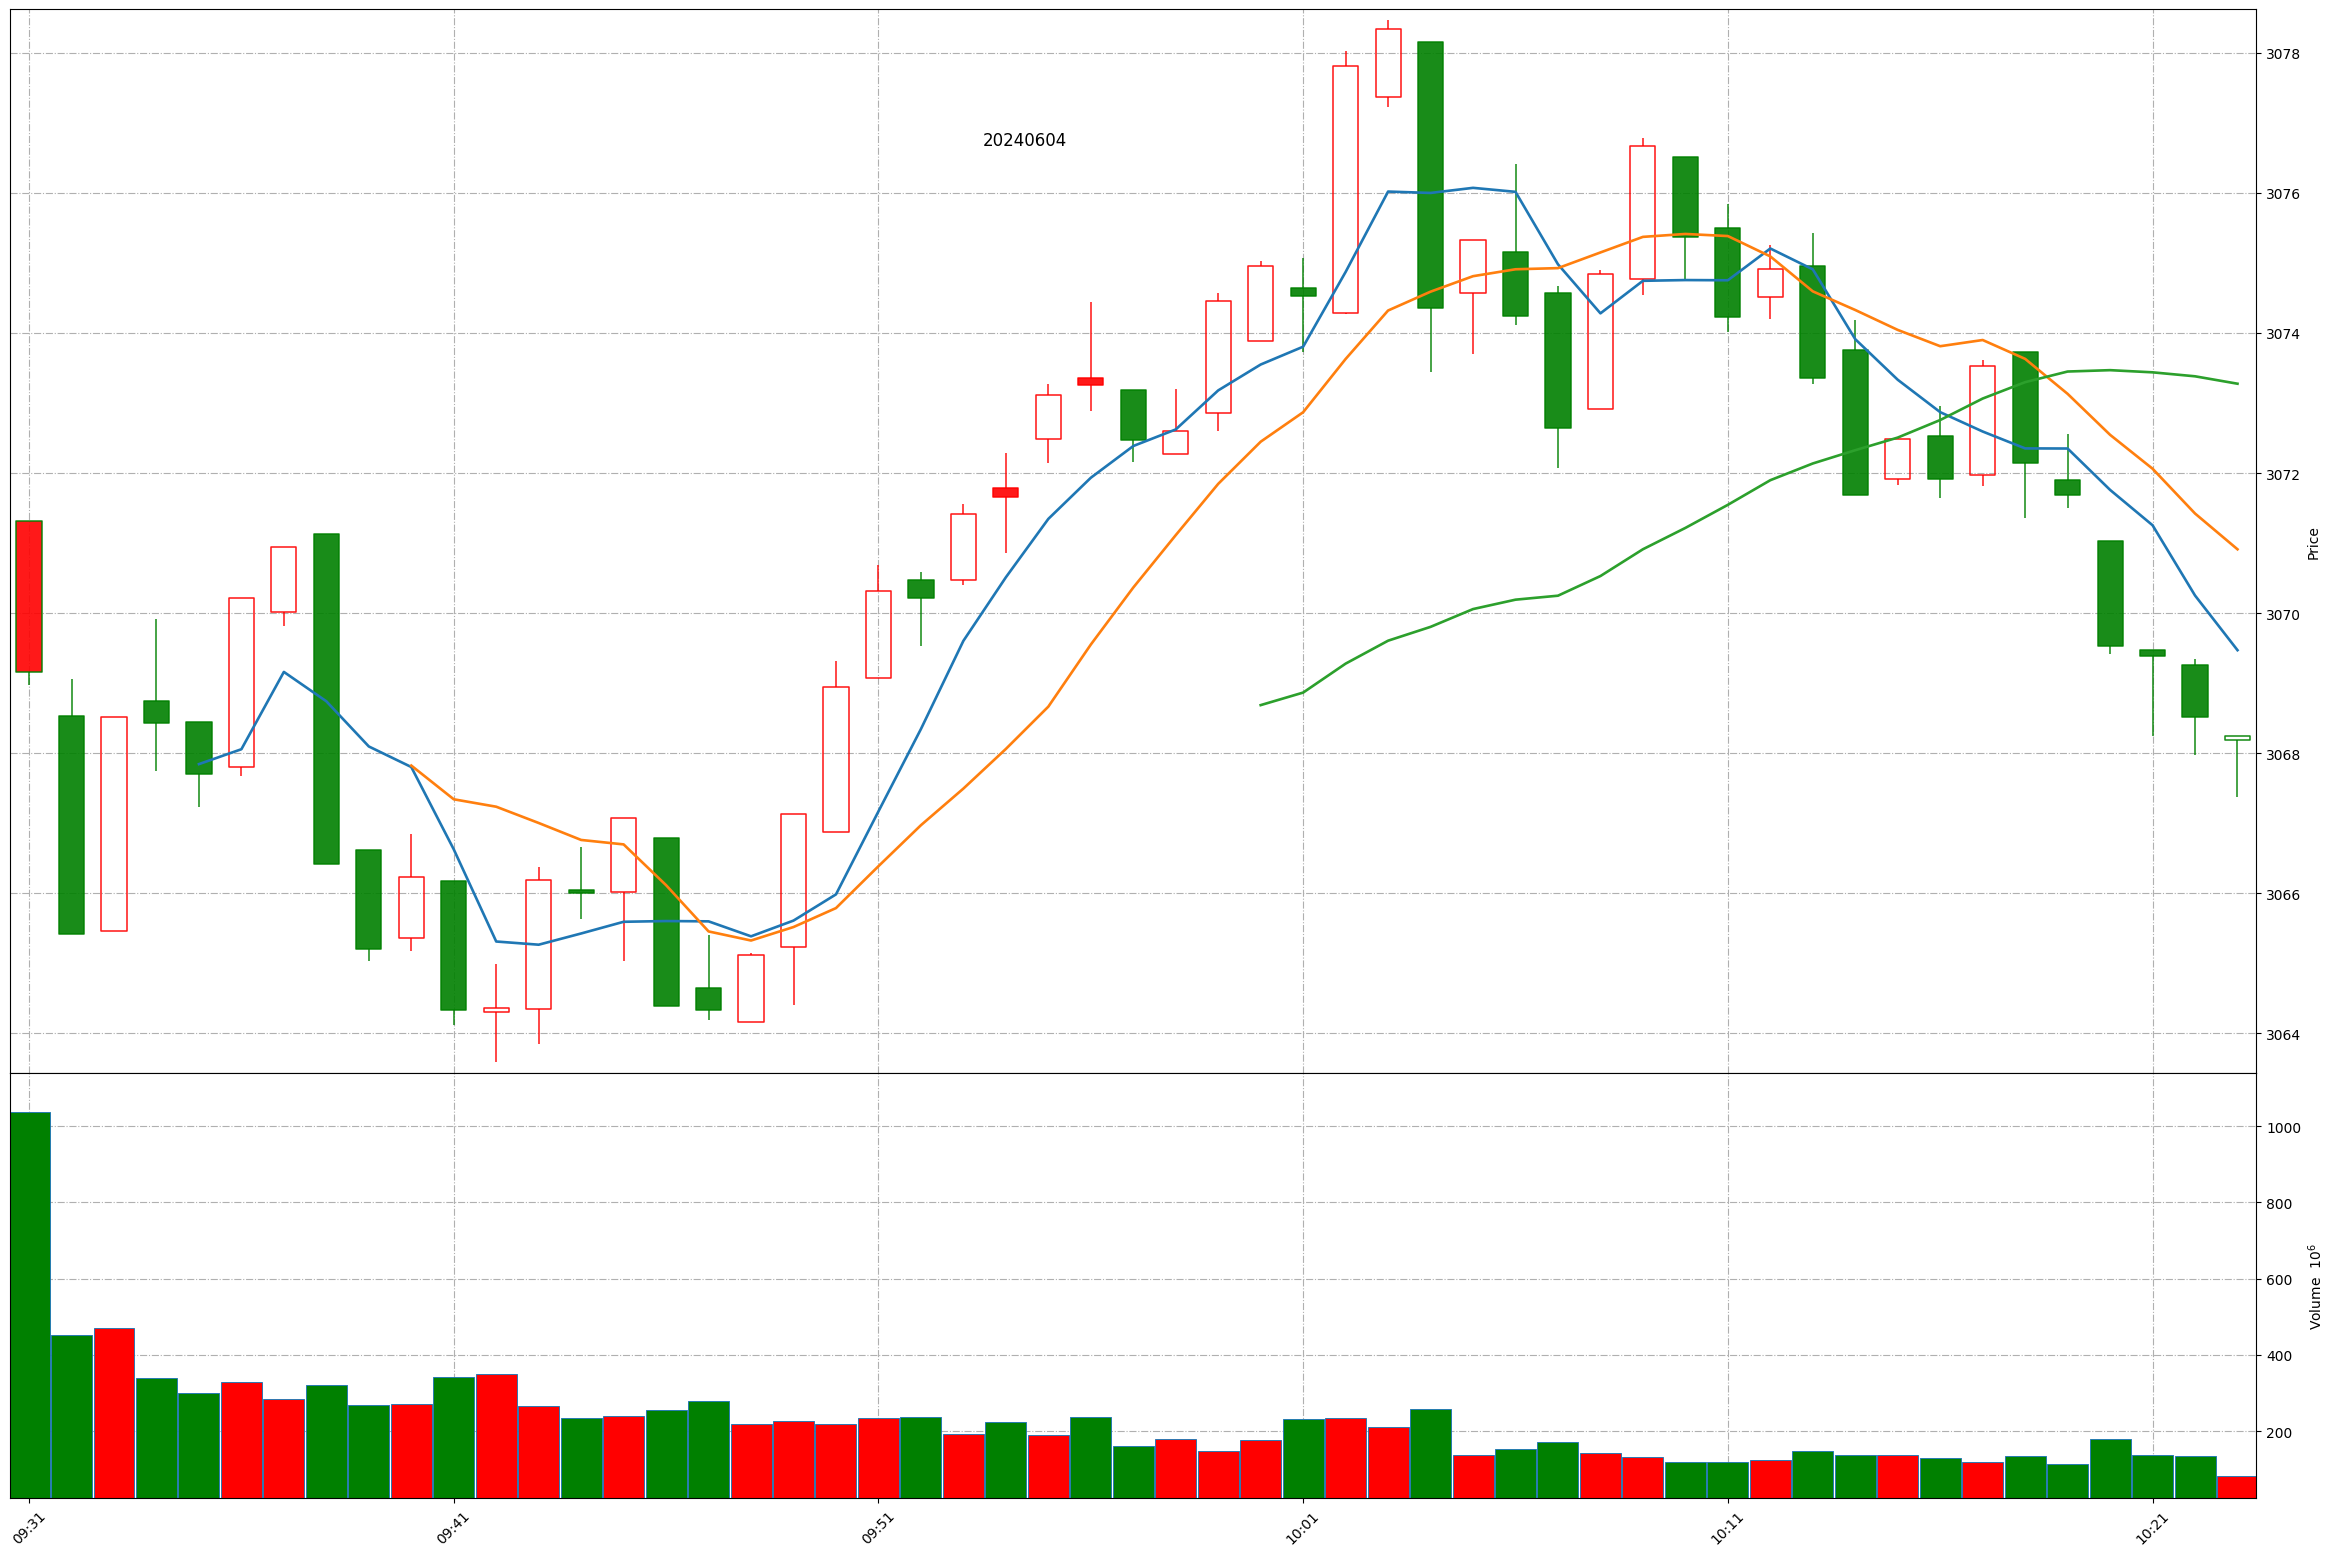
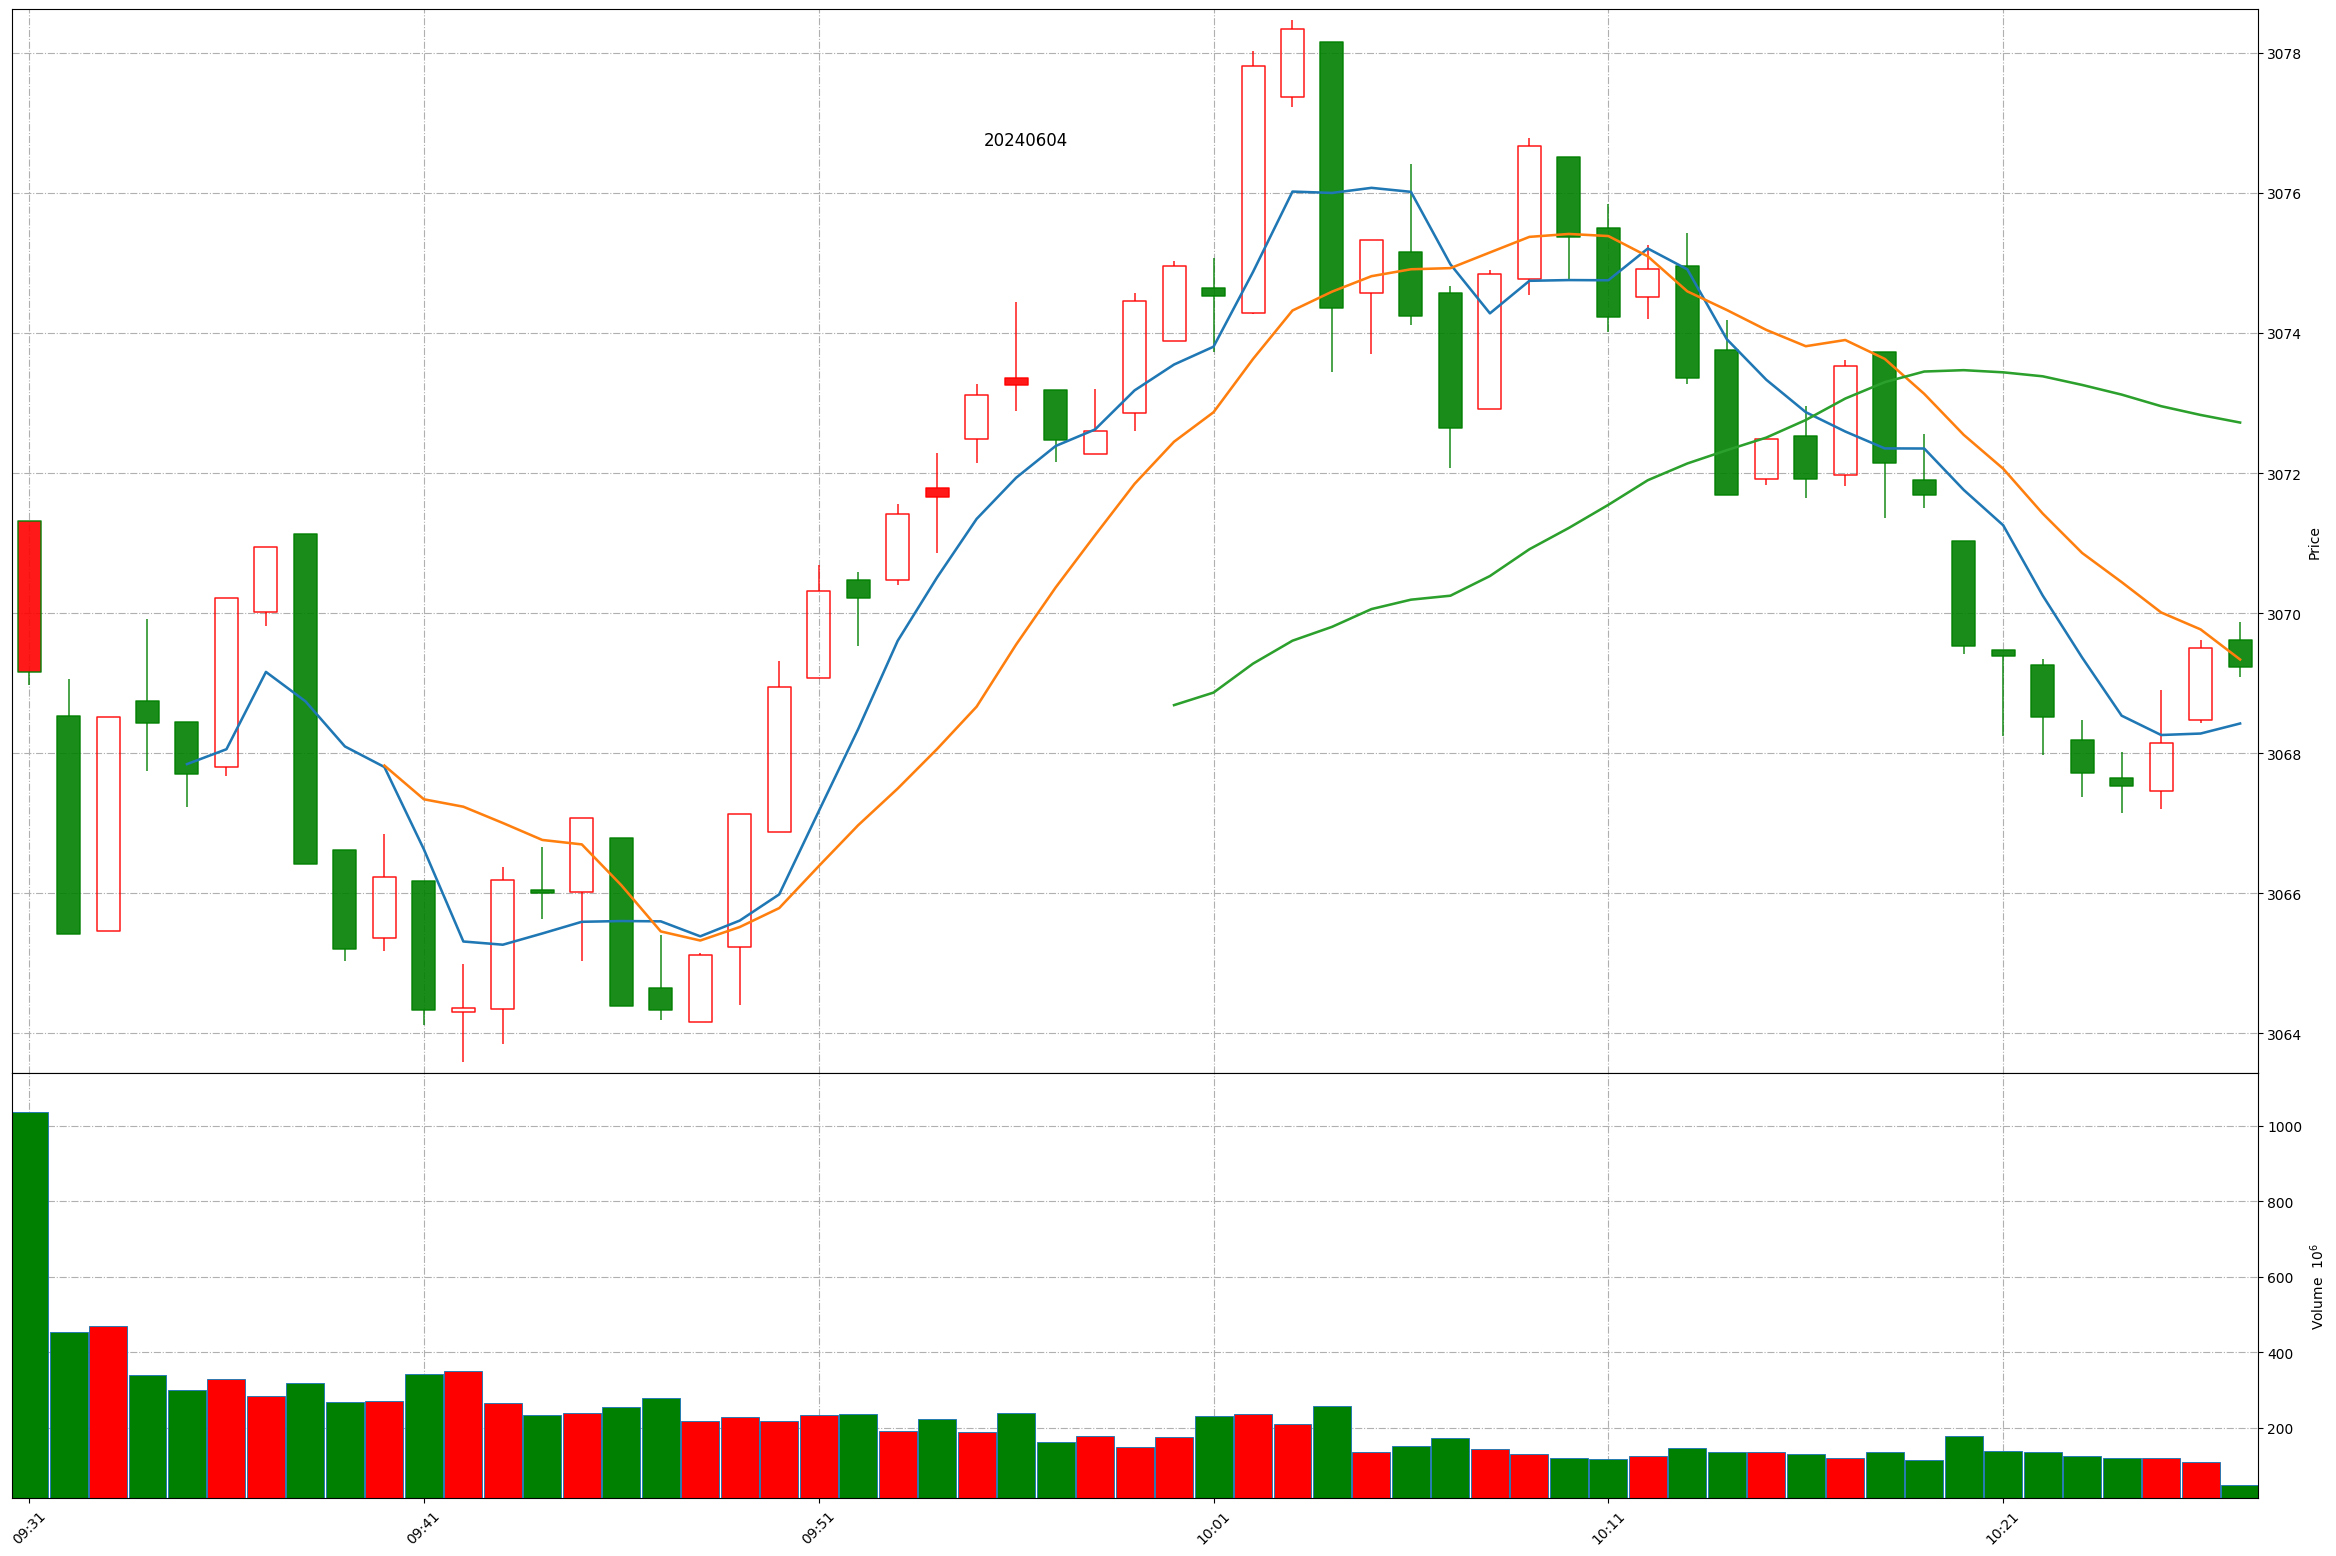
Github action update at 2024-06-04 10:26:49.

diff --git a/README.md b/README.md
@@ -1,11 +1,11 @@
 
 # Daily-A-share-market-quotes 每日 A 股指数（5min 更新）- 20240604
 
-### 上证指数 20240604 10:22
+### 上证指数 20240604 10:26
 ![](./fig/2024/6/20240604-sh000001.png)
 
-### 深证成指 20240604 10:22
+### 深证成指 20240604 10:26
 ![](./fig/2024/6/20240604-sz399001.png)
 
-### 北证50 20240604 10:22
+### 北证50 20240604 10:26
 ![](./fig/2024/6/20240604-bj899050.png)
